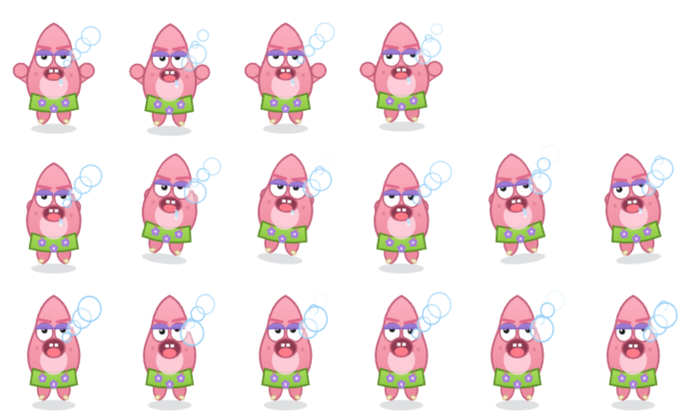
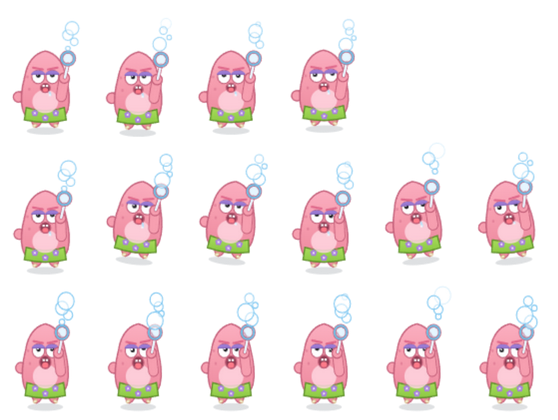
派大星：改对身形 + 改成手举泡泡棒吹泡泡
身形：之前画成了窄锥形，实际是「下方宽圆、上方收成圆钝圆顶」、
下重上收的海星体，最宽处挪到腰腹（半宽 41）。

吹泡泡：改成右手举一根泡泡棒，泡泡从棒上圆环的上方飘出来、越飘越大；
杆和圆环描了深色边 + 提亮，否则会被泡泡糊住看不见。
嘴也配合改成嘟起来吹气。

表情保持不变（紫眼皮、飘忽瞳孔、张嘴吐舌、挂口水）—— 这版表情已确认。

diff --git a/build/make-skins.js b/build/make-skins.js
@@ -548,116 +548,104 @@ function drawSponge(ctx, q, p, kind) {
 }
 
 /* ============================================================ ⑤ 粉海星 */
-/* 呆傻版派大星
-   关键特征（来自萌娘百科）：粉红海星、光膀子穿绿短裤、
-   「眼皮是紫色的」、没有鼻子、两脚各一只指甲。
-   表情走呆傻路线：紫眼皮压住一半眼睛、瞳孔往上飘、嘴巴松弛张开、流口水。 */
+/* 派大星：宽圆身体 + 手举泡泡棒吹泡泡
+   表情沿用上一版（紫眼皮、飘忽瞳孔、张嘴吐舌、挂口水）—— 那版表情已经得到认可。
+   身体改动：之前画成了窄锥形，实际是「下方宽圆、上方收成圆钝圆顶」的海星体。
+   吹泡泡改动：手里举一根泡泡棒，泡泡从棒上的圆环里飘出来，不是凭空从嘴边冒。 */
 function drawStar(ctx, q, p, kind) {
-  const LINE = '#C4607A';          // 描边用比体色深一点的粉
+  const LINE = '#C4607A';
   const PINK = '#F79FB0';
   const PINK_D = '#EE8AA0';
-  const PINK_L = '#FDD3DC';
-  const LID = '#9B7BD4';           // 紫色眼皮
+  const LID = '#9B7BD4';
   const look = Math.sin(p * TAU) * 1.8;
   const blow = kind === 'cheer' ? 1 : kind === 'dance' ? 0.7 : 0.35;
-  /* 发呆抖动：小幅度、慢，显得更呆 */
   const derp = Math.sin(p * TAU * 1.5) * (kind === 'idle' ? 1.2 : 2.2);
-  shadow(ctx, 58, 27);
+  shadow(ctx, 60, 30);
 
-  /* ---- 两条粗手臂：圆头圆脑垂在两边 ---- */
-  const aa = -0.25 - q.arm * 1.9;
-  [-1, 1].forEach(function (sgn) {
-    const ex = sgn * (27 + Math.cos(aa) * 20), ey = 4 + Math.sin(aa) * 20;
-    ctx.lineCap = 'round';
-    ctx.strokeStyle = PINK; ctx.lineWidth = 17;
-    ctx.beginPath(); ctx.moveTo(sgn * 20, 2); ctx.lineTo(ex, ey); ctx.stroke();
-    ctx.strokeStyle = LINE; ctx.lineWidth = 18.5;   // 先描深的再压浅的，做出轮廓
-    ctx.globalAlpha = 0.9;
-    ctx.beginPath(); ctx.moveTo(sgn * 20, 2); ctx.lineTo(ex, ey); ctx.stroke();
-    ctx.globalAlpha = 1;
-    ctx.strokeStyle = PINK; ctx.lineWidth = 15;
-    ctx.beginPath(); ctx.moveTo(sgn * 20, 2); ctx.lineTo(ex, ey); ctx.stroke();
-    ctx.fillStyle = PINK;
-    ctx.beginPath(); ctx.arc(ex, ey, 8.6, 0, TAU); ctx.fill();
-    ctx.strokeStyle = LINE; ctx.lineWidth = 2; ctx.stroke();
-  });
+  /* ---- 左手：自然垂在身侧 ---- */
+  const la = -0.1 - q.arm * 0.5;
+  const lx = -30 - Math.cos(la) * 14, ly = 10 + Math.sin(la) * 20;
+  ctx.lineCap = 'round';
+  ctx.strokeStyle = LINE; ctx.lineWidth = 18;
+  ctx.beginPath(); ctx.moveTo(-24, 2); ctx.lineTo(lx, ly); ctx.stroke();
+  ctx.strokeStyle = PINK; ctx.lineWidth = 15;
+  ctx.beginPath(); ctx.moveTo(-24, 2); ctx.lineTo(lx, ly); ctx.stroke();
+  ctx.fillStyle = PINK;
+  ctx.beginPath(); ctx.arc(lx, ly, 8.4, 0, TAU); ctx.fill();
+  ctx.strokeStyle = LINE; ctx.lineWidth = 2; ctx.stroke();
 
-  /* ---- 两条短腿 + 各一只脚指甲 ---- */
+  /* ---- 两条短腿 + 指甲 ---- */
   [-1, 1].forEach(function (sgn) {
     ctx.fillStyle = PINK_D;
     ctx.beginPath();
-    ctx.moveTo(sgn * 15, 24);
-    ctx.quadraticCurveTo(sgn * 26, 44, sgn * 13, 52);
-    ctx.quadraticCurveTo(sgn * 2, 48, sgn * 4, 28);
+    ctx.moveTo(sgn * 17, 28);
+    ctx.quadraticCurveTo(sgn * 28, 46, sgn * 15, 54);
+    ctx.quadraticCurveTo(sgn * 3, 50, sgn * 5, 32);
     ctx.closePath(); ctx.fill();
     ctx.strokeStyle = LINE; ctx.lineWidth = 2; ctx.stroke();
-    ctx.fillStyle = '#F2E7C8';                       // 指甲
-    ctx.beginPath(); ctx.ellipse(sgn * 15, 49, 3.4, 2.4, sgn * 0.3, 0, TAU); ctx.fill();
+    ctx.fillStyle = '#F2E7C8';
+    ctx.beginPath(); ctx.ellipse(sgn * 17, 51, 3.4, 2.4, sgn * 0.3, 0, TAU); ctx.fill();
     ctx.strokeStyle = '#C9A96A'; ctx.lineWidth = 1; ctx.stroke();
   });
 
-  /* ---- 头身：上尖下圆的整块海星体 ---- */
-  const g = ctx.createLinearGradient(0, -68, 0, 34);
-  g.addColorStop(0, '#FBAEC0'); g.addColorStop(0.5, PINK); g.addColorStop(1, PINK_D);
+  /* ---- 头身：宽圆的整块海星体（下方宽、上方收成圆钝的圆顶） ---- */
+  const g = ctx.createLinearGradient(0, -70, 0, 38);
+  g.addColorStop(0, '#FBAEC0'); g.addColorStop(0.45, PINK); g.addColorStop(1, PINK_D);
   ctx.fillStyle = g;
   ctx.beginPath();
-  ctx.moveTo(0, -68);
-  ctx.bezierCurveTo(13, -62, 20, -48, 22, -34);
-  ctx.bezierCurveTo(25, -22, 32, -14, 32, 0);
-  ctx.bezierCurveTo(32, 20, 21, 34, 0, 34);
-  ctx.bezierCurveTo(-21, 34, -32, 20, -32, 0);
-  ctx.bezierCurveTo(-32, -14, -25, -22, -22, -34);
-  ctx.bezierCurveTo(-20, -48, -13, -62, 0, -68);
+  ctx.moveTo(0, -70);
+  ctx.bezierCurveTo(20, -66, 30, -48, 33, -30);      // 圆钝的头顶
+  ctx.bezierCurveTo(38, -12, 41, 8, 37, 24);         // 身体最宽处
+  ctx.bezierCurveTo(33, 40, 18, 46, 0, 46);          // 宽圆的下半
+  ctx.bezierCurveTo(-18, 46, -33, 40, -37, 24);
+  ctx.bezierCurveTo(-41, 8, -38, -12, -33, -30);
+  ctx.bezierCurveTo(-30, -48, -20, -66, 0, -70);
   ctx.closePath(); ctx.fill();
   ctx.strokeStyle = LINE; ctx.lineWidth = 2.4; ctx.stroke();
 
-  /* ---- 绿短裤（在身体之前画下半截，贴合胯部） ---- */
+  /* ---- 绿短裤 ---- */
   ctx.beginPath();
-  ctx.moveTo(-26, 16); ctx.quadraticCurveTo(0, 25, 26, 16);
-  ctx.lineTo(29, 34); ctx.quadraticCurveTo(0, 42, -29, 34);
+  ctx.moveTo(-31, 22); ctx.quadraticCurveTo(0, 32, 31, 22);
+  ctx.lineTo(34, 42); ctx.quadraticCurveTo(0, 50, -34, 42);
   ctx.closePath();
-  const sg = ctx.createLinearGradient(0, 16, 0, 38);
+  const sg = ctx.createLinearGradient(0, 22, 0, 46);
   sg.addColorStop(0, '#A8DE5C'); sg.addColorStop(1, '#8CC843');
   ctx.fillStyle = sg; ctx.fill();
   ctx.strokeStyle = '#5E8F2A'; ctx.lineWidth = 2.2; ctx.stroke();
-  /* 紫花 */
-  [[-14, 27], [14, 27], [0, 34]].forEach(function (pt) {
+  [[-17, 31], [17, 31], [0, 39]].forEach(function (pt) {
     ctx.fillStyle = '#A97FE0';
     for (let k = 0; k < 5; k++) {
       const a = k / 5 * TAU - Math.PI / 2;
       ctx.beginPath();
-      ctx.ellipse(pt[0] + Math.cos(a) * 3.1, pt[1] + Math.sin(a) * 3.1, 2.2, 2.2, 0, 0, TAU);
+      ctx.ellipse(pt[0] + Math.cos(a) * 3.2, pt[1] + Math.sin(a) * 3.2, 2.3, 2.3, 0, 0, TAU);
       ctx.fill();
     }
     ctx.fillStyle = '#F0DFFF';
-    ctx.beginPath(); ctx.arc(pt[0], pt[1], 1.5, 0, TAU); ctx.fill();
+    ctx.beginPath(); ctx.arc(pt[0], pt[1], 1.6, 0, TAU); ctx.fill();
   });
 
   /* ---- 浅色肚皮 ---- */
   ctx.fillStyle = 'rgba(255,214,224,.85)';
-  ctx.beginPath(); ctx.ellipse(0, 6, 17, 17, 0, 0, TAU); ctx.fill();
-  /* 身上的小点（海星的质感，鼻子的位置没有） */
+  ctx.beginPath(); ctx.ellipse(0, 12, 21, 19, 0, 0, TAU); ctx.fill();
   ctx.fillStyle = 'rgba(214,110,138,.5)';
-  [[-21, -8], [21, -6], [-15, 20], [16, 21], [-24, -26], [24, -25]].forEach(function (pt) {
+  [[-26, -8], [26, -6], [-20, 24], [21, 25], [-29, -28], [29, -27]].forEach(function (pt) {
     ctx.beginPath(); ctx.ellipse(pt[0], pt[1], 1.9, 2.3, 0, 0, TAU); ctx.fill();
   });
 
-  /* ---- 眼睛：白眼球 + 紫色厚眼皮压住上半边（这是派大星的灵魂） ---- */
-  const eyY = -26, er = 10.5;
+  /* ---- 眼睛：白眼球 + 紫色厚眼皮（派大星的灵魂，保持不变） ---- */
+  const eyY = -28, er = 10.5;
   ctx.fillStyle = '#FFFFFF';
   ctx.beginPath(); ctx.ellipse(-11.5, eyY, er, er * 1.05, 0, 0, TAU); ctx.fill();
   ctx.beginPath(); ctx.ellipse(11.5, eyY, er, er * 1.05, 0, 0, TAU); ctx.fill();
   ctx.strokeStyle = LINE; ctx.lineWidth = 1.8;
   ctx.beginPath(); ctx.ellipse(-11.5, eyY, er, er * 1.05, 0, 0, TAU); ctx.stroke();
   ctx.beginPath(); ctx.ellipse(11.5, eyY, er, er * 1.05, 0, 0, TAU); ctx.stroke();
-  /* 瞳孔：往上飘、还各看各的 */
   ctx.fillStyle = '#1D1D22';
   ctx.beginPath(); ctx.arc(-11.5 + look * 1.4, eyY - 2.4 + derp * 0.6, 3.6, 0, TAU); ctx.fill();
   ctx.beginPath(); ctx.arc(11.5 - look * 1.4, eyY - 3.0 - derp * 0.6, 3.6, 0, TAU); ctx.fill();
   ctx.fillStyle = 'rgba(255,255,255,.9)';
   ctx.beginPath(); ctx.arc(-12.6 + look * 1.4, eyY - 3.6 + derp * 0.6, 1.3, 0, TAU); ctx.fill();
   ctx.beginPath(); ctx.arc(10.4 - look * 1.4, eyY - 4.2 - derp * 0.6, 1.3, 0, TAU); ctx.fill();
-  /* 紫色眼皮 */
   ctx.fillStyle = LID;
   ctx.beginPath(); ctx.ellipse(-11.5, eyY - 4.2, er + 0.6, 6.2, 0, Math.PI, TAU); ctx.fill();
   ctx.beginPath(); ctx.ellipse(11.5, eyY - 4.2, er + 0.6, 6.2, 0, Math.PI, TAU); ctx.fill();
@@ -665,48 +653,74 @@ function drawStar(ctx, q, p, kind) {
   ctx.beginPath(); ctx.moveTo(-22, eyY - 4.2); ctx.lineTo(-1, eyY - 4.2); ctx.stroke();
   ctx.beginPath(); ctx.moveTo(1, eyY - 4.2); ctx.lineTo(22, eyY - 4.2); ctx.stroke();
 
-  /* ---- 粗眉（粉的，压得很低 = 呆） ---- */
+  /* ---- 粗眉 ---- */
   ctx.strokeStyle = '#E06A8C'; ctx.lineWidth = 3.4; ctx.lineCap = 'round';
-  ctx.beginPath(); ctx.moveTo(-20, -41 + derp * 0.5); ctx.lineTo(-4, -38 + derp * 0.5); ctx.stroke();
-  ctx.beginPath(); ctx.moveTo(20, -41 - derp * 0.5); ctx.lineTo(4, -38 - derp * 0.5); ctx.stroke();
+  ctx.beginPath(); ctx.moveTo(-20, -43 + derp * 0.5); ctx.lineTo(-4, -40 + derp * 0.5); ctx.stroke();
+  ctx.beginPath(); ctx.moveTo(20, -43 - derp * 0.5); ctx.lineTo(4, -40 - derp * 0.5); ctx.stroke();
 
-  /* ---- 嘴：松弛张开、舌头吐出来 ---- */
-  const mw = 11 + blow * 3, mh = 6 + blow * 5;
+  /* ---- 嘴：嘟起来吹泡泡 ---- */
+  const mw = 7 + blow * 2.5, mh = 6 + blow * 4;
   ctx.beginPath();
-  ctx.ellipse(0, -8 + derp * 0.4, mw, mh, 0, 0, TAU);
+  ctx.ellipse(0, -10 + derp * 0.4, mw, mh, 0, 0, TAU);
   ctx.fillStyle = '#8E3B52'; ctx.fill();
   ctx.strokeStyle = LINE; ctx.lineWidth = 2; ctx.stroke();
   ctx.fillStyle = '#FF7B8A';
-  ctx.beginPath(); ctx.ellipse(0, -5.5 + blow * 2.5 + derp * 0.4, mw * 0.6, mh * 0.46, 0, 0, TAU); ctx.fill();
-  ctx.fillStyle = '#FFFFFF';                       // 两颗上门牙
-  ctx.beginPath(); ctx.rect(-5.4, -13 + derp * 0.4, 4.4, 3.6); ctx.fill();
-  ctx.beginPath(); ctx.rect(1, -13 + derp * 0.4, 4.4, 3.6); ctx.fill();
+  ctx.beginPath(); ctx.ellipse(0, -7.5 + blow * 2 + derp * 0.4, mw * 0.56, mh * 0.42, 0, 0, TAU); ctx.fill();
+  ctx.fillStyle = '#FFFFFF';
+  ctx.beginPath(); ctx.rect(-4.6, -15 + derp * 0.4, 3.8, 3.4); ctx.fill();
+  ctx.beginPath(); ctx.rect(0.9, -15 + derp * 0.4, 3.8, 3.4); ctx.fill();
 
   /* ---- 口水（呆傻感的点睛之笔） ---- */
   if (kind !== 'cheer') {
     const drool = 4 + (Math.sin(p * TAU * 2) * 0.5 + 0.5) * 6;
     ctx.fillStyle = 'rgba(180,230,255,.85)';
     ctx.beginPath();
-    ctx.moveTo(9, -2);
-    ctx.quadraticCurveTo(12.5, drool * 0.6, 9.5, drool);
-    ctx.quadraticCurveTo(6.5, drool * 0.6, 6.5, -2);
+    ctx.moveTo(8, -4);
+    ctx.quadraticCurveTo(11.5, drool * 0.6 - 2, 8.5, drool - 4);
+    ctx.quadraticCurveTo(5.5, drool * 0.6 - 2, 5.5, -4);
     ctx.closePath(); ctx.fill();
     ctx.fillStyle = 'rgba(255,255,255,.7)';
-    ctx.beginPath(); ctx.arc(8.2, drool - 1.4, 1.7, 0, TAU); ctx.fill();
+    ctx.beginPath(); ctx.arc(7.2, drool - 5.4, 1.7, 0, TAU); ctx.fill();
   }
 
-  /* ---- 泡泡（抓水母 / 吹泡泡是他的爱好） ---- */
+  /* ---- 右手：举着泡泡棒 ---- */
+  const ra = -1.35 - q.arm * 0.55;
+  const rx = 30 + Math.cos(ra) * 24, ry = -2 + Math.sin(ra) * 24;
+  ctx.strokeStyle = LINE; ctx.lineWidth = 18;
+  ctx.beginPath(); ctx.moveTo(26, 4); ctx.lineTo(rx, ry); ctx.stroke();
+  ctx.strokeStyle = PINK; ctx.lineWidth = 15;
+  ctx.beginPath(); ctx.moveTo(26, 4); ctx.lineTo(rx, ry); ctx.stroke();
+  ctx.fillStyle = PINK;
+  ctx.beginPath(); ctx.arc(rx, ry, 8.4, 0, TAU); ctx.fill();
+  ctx.strokeStyle = LINE; ctx.lineWidth = 2; ctx.stroke();
+
+  /* 泡泡棒：小杆 + 圆环（画醒目点，不然会被泡泡糊住看不见） */
+  const tipX = rx + 6, tipY = ry - 32;
+  ctx.lineCap = 'round';
+  ctx.strokeStyle = LINE; ctx.lineWidth = 6.4;
+  ctx.beginPath(); ctx.moveTo(rx + 1, ry - 1); ctx.lineTo(tipX, tipY + 9); ctx.stroke();
+  ctx.strokeStyle = '#EAF7FF'; ctx.lineWidth = 4;
+  ctx.beginPath(); ctx.moveTo(rx + 1, ry - 1); ctx.lineTo(tipX, tipY + 9); ctx.stroke();
+  const ringX = tipX, ringY = tipY;
+  ctx.fillStyle = 'rgba(205,238,255,.5)';
+  ctx.beginPath(); ctx.arc(ringX, ringY, 10.5, 0, TAU); ctx.fill();
+  ctx.strokeStyle = LINE; ctx.lineWidth = 5.4;
+  ctx.beginPath(); ctx.arc(ringX, ringY, 10.5, 0, TAU); ctx.stroke();
+  ctx.strokeStyle = '#6FBEE4'; ctx.lineWidth = 3.2;
+  ctx.beginPath(); ctx.arc(ringX, ringY, 10.5, 0, TAU); ctx.stroke();
+
+  /* ---- 泡泡：从圆环里被吹出来，越飘越大 ---- */
   for (let i = 0; i < 4; i++) {
-    const t = (p * 2.2 + i * 0.25) % 1;
-    const r = (3.6 + i * 2.0) * (1 + blow * 0.5);
-    const bx = 16 + t * 26 + i * 3;
-    const by = -20 - t * 44;
-    const fade = t > 0.78 ? (1 - t) / 0.22 : 1;
-    ctx.globalAlpha = Math.min(1, fade * (0.55 + blow * 0.45));
-    ctx.fillStyle = 'rgba(255,255,255,.5)';
+    const t = (p * 1.8 + i * 0.25) % 1;
+    const r = (3.2 + i * 2.1) * (1 + blow * 0.45);
+    const bx = ringX + Math.sin(t * 4 + i) * 8 + t * 12;
+    const by = ringY - 16 - t * 44;
+    const fade = t > 0.8 ? (1 - t) / 0.2 : 1;
+    ctx.globalAlpha = Math.min(1, fade * (0.6 + blow * 0.4));
+    ctx.fillStyle = 'rgba(255,255,255,.55)';
     ctx.beginPath(); ctx.arc(bx, by, r, 0, TAU); ctx.fill();
-    ctx.lineWidth = 1.7;
-    ctx.strokeStyle = 'rgba(146,206,246,.95)';
+    ctx.lineWidth = 1.8;
+    ctx.strokeStyle = 'rgba(120,196,240,.95)';
     ctx.beginPath(); ctx.arc(bx, by, r, 0, TAU); ctx.stroke();
     ctx.fillStyle = 'rgba(255,255,255,.95)';
     ctx.beginPath(); ctx.arc(bx - r * 0.36, by - r * 0.36, r * 0.24, 0, TAU); ctx.fill();
